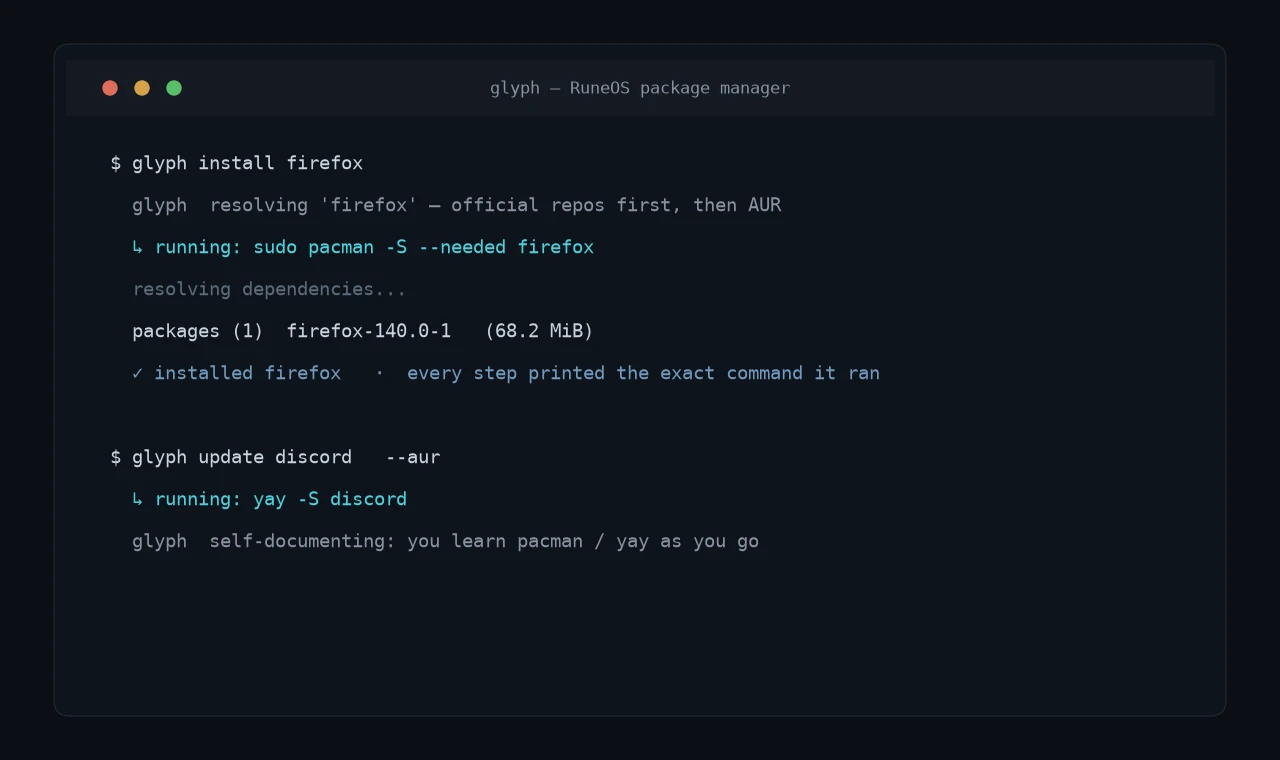
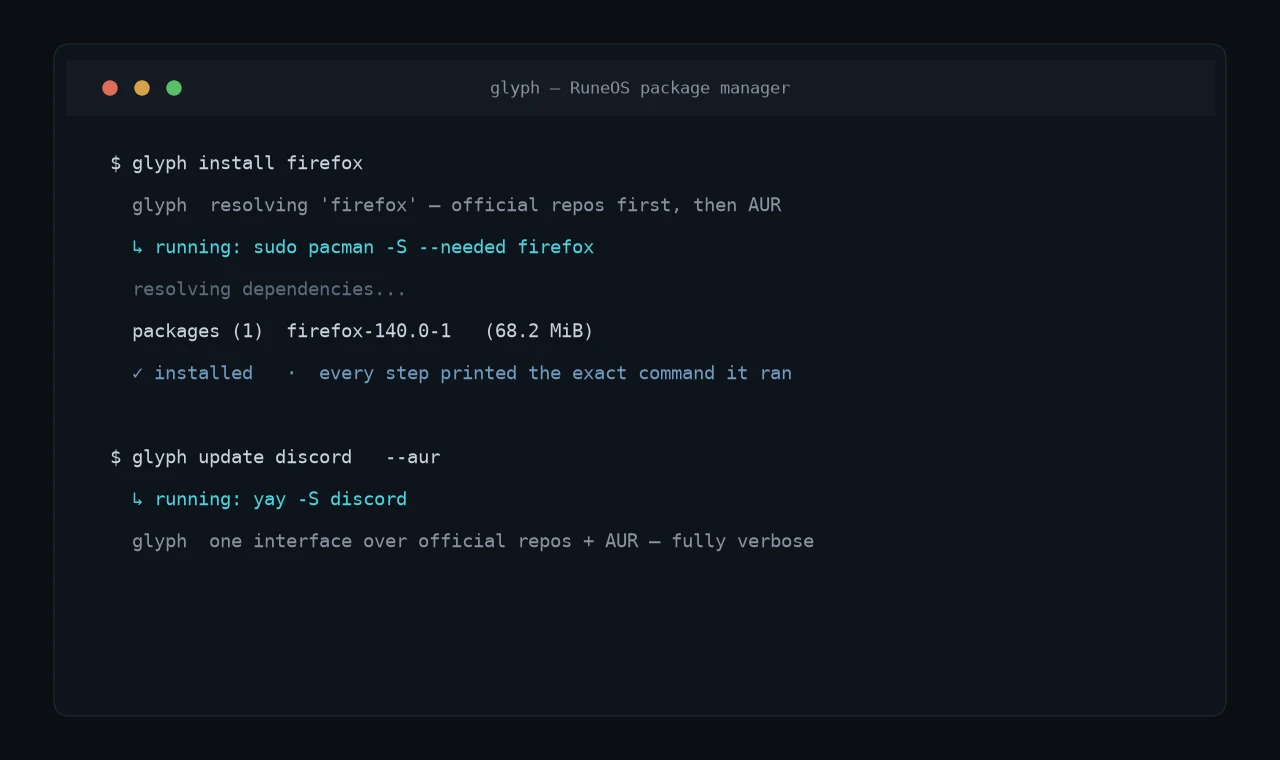
Reorder by impressiveness; fix glyph + RustRent copy; Bellatrix single image
- Systems: RuneOS → Runic → Seance → Coven → livewall → glyph → murder.
- Tools: Weather → WatchTower → repliKate → RustRent → WhoAmI → Nocturne.
- glyph copy: it replaces pacman — dropped the "learn as you go" framing, now
  about being fast/unified/transparent.
- RustRent recast around the real difficulty: resilient scraping through
  anti-bot / rate-limit defenses.
- Bellatrix uses only the single provided render (gallery removed).

Changed region(s): [[0.1562, 0.6961, 0.625, 0.7263], [0.4062, 0.4842, 0.6875, 0.5145], [0.2188, 0.4842, 0.375, 0.5145]]

diff --git a/script.js b/script.js
@@ -195,24 +195,6 @@ const projectsData = [
     },
     {
         section: 'systems', code: 'OS-02',
-        title: 'Seance',
-        short: 'A fail-safe network control plane, in staged eBPF layers, slowly replacing NetworkManager.',
-        image: 'images/seance/seance.webp',
-        tags: ['Rust', 'eBPF', 'Networking', 'cgroup_skb', 'Fail-safe'],
-        description: 'Seance is a network control plane I am building to replace NetworkManager, designed in staged safety layers. The S0 control plane installs a single inert beacon rule at boot, ticks a fixed loop, runs an invariant pass over the rule table, and proves its own liveness on two independent channels — and deliberately never repairs anything it observes, so the teardown path can always clean up after it even when the daemon is "a corpse or a liar." Above it, an eBPF cgroup_skb classifier puts Rust directly in the egress packet path, and a fanotify canary watchdog watches for tampering. The whole thing is engineered fail-safe-first: every rule is something the panic/teardown path can undo without the daemon\'s cooperation.',
-        features: [
-            'Staged design: S0 control plane → eBPF egress classifier → canary watchdog',
-            'eBPF cgroup_skb classifier — Rust in the egress packet path',
-            'S0 proves liveness on two independent channels (sd_notify + heartbeat)',
-            'Never repairs what it observes — teardown works without its cooperation',
-            'fanotify canary watchdog, observe-only',
-            'Fail-safe-first: built before anything that could break the box exists'
-        ],
-        tech: 'Rust · eBPF (aya) · cgroup_skb · fanotify · netlink',
-        github: 'https://github.com/camdenconradsms/rune-sched'
-    },
-    {
-        section: 'systems', code: 'OS-03',
         title: 'Runic',
         short: 'A from-scratch Rust audio server replacing PipeWire — bit-perfect playback, pro low latency, and PipeWire wire-compat.',
         image: 'images/runic/runic.webp',
@@ -230,41 +212,42 @@ const projectsData = [
         github: 'https://github.com/camdenconrad/runic'
     },
     {
-        section: 'systems', code: 'OS-04',
-        title: 'glyph',
-        short: 'A verbose pacman + yay (AUR) front-end that prints the exact command it runs — so it teaches as it goes.',
-        image: 'images/glyph/glyph.webp',
-        tags: ['Rust', 'CLI', 'Arch / pacman', 'AUR', 'RuneOS'],
-        description: 'glyph is the RuneOS package manager — a friendly, verbose front-end over pacman (official repos) and yay (AUR). It always announces what it is doing and prints the exact underlying command before it runs, so "glyph install firefox" or "glyph update discord" is self-documenting: you learn pacman and yay as you go, and there is never any mystery about what glyph did to your system. Official repos are resolved first, with a flag to force the AUR-only path.',
+        section: 'systems', code: 'OS-03',
+        title: 'Seance',
+        short: 'A fail-safe network control plane, in staged eBPF layers, slowly replacing NetworkManager.',
+        image: 'images/seance/seance.webp',
+        tags: ['Rust', 'eBPF', 'Networking', 'cgroup_skb', 'Fail-safe'],
+        description: 'Seance is a network control plane I am building to replace NetworkManager, designed in staged safety layers. The S0 control plane installs a single inert beacon rule at boot, ticks a fixed loop, runs an invariant pass over the rule table, and proves its own liveness on two independent channels — and deliberately never repairs anything it observes, so the teardown path can always clean up after it even when the daemon is "a corpse or a liar." Above it, an eBPF cgroup_skb classifier puts Rust directly in the egress packet path, and a fanotify canary watchdog watches for tampering. The whole thing is engineered fail-safe-first: every rule is something the panic/teardown path can undo without the daemon\'s cooperation.',
         features: [
-            'Verbose front-end over pacman + yay (AUR)',
-            'Prints the exact underlying command before running it',
-            'Self-documenting — teaches pacman/yay as you use it',
-            'Official repos first, with an --aur override',
-            'Fast, single Rust binary'
+            'Staged design: S0 control plane → eBPF egress classifier → canary watchdog',
+            'eBPF cgroup_skb classifier — Rust in the egress packet path',
+            'S0 proves liveness on two independent channels (sd_notify + heartbeat)',
+            'Never repairs what it observes — teardown works without its cooperation',
+            'fanotify canary watchdog, observe-only',
+            'Fail-safe-first: built before anything that could break the box exists'
         ],
-        tech: 'Rust · CLI · pacman · yay / AUR',
-        github: 'https://github.com/camdenconradsms/livewall-studio'
+        tech: 'Rust · eBPF (aya) · cgroup_skb · fanotify · netlink',
+        github: 'https://github.com/camdenconradsms/rune-sched'
+    },
+    {
+        section: 'systems', code: 'OS-04',
+        title: 'Coven',
+        short: 'Rune-native mission control orchestrating parallel Claude Code sessions with adversarial red-team review.',
+        image: 'images/coven/mission-control.webp',
+        tags: ['Rust', 'Orchestration', 'Postgres / pgvector', 'GitHub API'],
+        description: 'Coven is a Rune-native mission-control application that orchestrates multiple parallel Claude Code sessions per project. It integrates with GitHub issues and PRs, runs an adversarial red-team review stage where Codex and Gemini review diffs against each other, keeps a Postgres + pgvector memory, and switches models based on budget. A personal tool for coordinating several automated development workflows at once.',
+        features: [
+            'Orchestrates multiple parallel Claude Code sessions per project',
+            'GitHub issue / PR integration',
+            'Adversarial red-team review — Codex + Gemini reviewing diffs',
+            'Postgres + pgvector long-term memory',
+            'Budget-aware model switching'
+        ],
+        tech: 'Rust · Postgres · pgvector · LLM orchestration',
+        private: true
     },
     {
         section: 'systems', code: 'OS-05',
-        title: 'murder',
-        short: 'A safer kill that refuses to slay session-critical processes unless you perform the --ritual.',
-        image: 'images/murder/murder.webp',
-        tags: ['Rust', 'CLI', 'Linux', 'RuneOS'],
-        description: 'murder is Rune\'s kill: it signals processes by PID or exact name (pkill -x style), but wards the handful of processes that would tear down the live desktop session — the compositor, the wallpaper engine, the dock — and refuses to touch them unless you pass --ritual. It exists because "pkill -x rune" is an instant sign-out and "pkill -f livewall-studio" is a black screen; murder makes the safe thing the default and the dangerous thing deliberate.',
-        features: [
-            'Kill by PID or exact comm name (pkill -x style)',
-            'Wards session-critical processes (compositor, wallpaper, dock)',
-            'Refuses to kill warded processes without --ritual',
-            'Respects an explicitly named signal — never escalates',
-            'Small, fast Rust binary'
-        ],
-        tech: 'Rust · CLI · Linux signals',
-        github: 'https://github.com/camdenconradsms/livewall-studio'
-    },
-    {
-        section: 'systems', code: 'OS-06',
         title: 'livewall-studio',
         short: 'A native Rust + wgpu live-wallpaper engine rendering on the Wayland background layer — the living wallpaper I daily-drive.',
         image: 'images/livewall/fallpark.webp',
@@ -281,21 +264,38 @@ const projectsData = [
         github: 'https://github.com/camdenconradsms/livewall-studio'
     },
     {
-        section: 'systems', code: 'OS-07',
-        title: 'Coven',
-        short: 'Rune-native mission control orchestrating parallel Claude Code sessions with adversarial red-team review.',
-        image: 'images/coven/mission-control.webp',
-        tags: ['Rust', 'Orchestration', 'Postgres / pgvector', 'GitHub API'],
-        description: 'Coven is a Rune-native mission-control application that orchestrates multiple parallel Claude Code sessions per project. It integrates with GitHub issues and PRs, runs an adversarial red-team review stage where Codex and Gemini review diffs against each other, keeps a Postgres + pgvector memory, and switches models based on budget. A personal tool for coordinating several automated development workflows at once.',
+        section: 'systems', code: 'OS-06',
+        title: 'glyph',
+        short: 'A fast package manager that unifies official repos and the AUR under one command — and prints exactly what it runs.',
+        image: 'images/glyph/glyph.webp',
+        tags: ['Rust', 'CLI', 'Arch / pacman', 'AUR', 'RuneOS'],
+        description: 'glyph is the RuneOS package manager — a fast, verbose front-end that unifies pacman (official repos) and yay (AUR) behind a single command. It always announces what it is doing and prints the exact underlying command before it runs, so there is never any mystery about what glyph did to your system: no black-box wrapper, just one fast, explicit interface over both package sources. Official repos are resolved first, with a flag to force the AUR-only path.',
         features: [
-            'Orchestrates multiple parallel Claude Code sessions per project',
-            'GitHub issue / PR integration',
-            'Adversarial red-team review — Codex + Gemini reviewing diffs',
-            'Postgres + pgvector long-term memory',
-            'Budget-aware model switching'
+            'One command over both official repos (pacman) and the AUR (yay)',
+            'Prints the exact underlying command before running it — full transparency',
+            'Verbose, explicit output; never a black box',
+            'Official repos first, with an --aur override',
+            'Fast, single Rust binary'
         ],
-        tech: 'Rust · Postgres · pgvector · LLM orchestration',
-        private: true
+        tech: 'Rust · CLI · pacman · yay / AUR',
+        github: 'https://github.com/camdenconradsms/livewall-studio'
+    },
+    {
+        section: 'systems', code: 'OS-07',
+        title: 'murder',
+        short: 'A safer kill that refuses to slay session-critical processes unless you perform the --ritual.',
+        image: 'images/murder/murder.webp',
+        tags: ['Rust', 'CLI', 'Linux', 'RuneOS'],
+        description: 'murder is Rune\'s kill: it signals processes by PID or exact name (pkill -x style), but wards the handful of processes that would tear down the live desktop session — the compositor, the wallpaper engine, the dock — and refuses to touch them unless you pass --ritual. It exists because "pkill -x rune" is an instant sign-out and "pkill -f livewall-studio" is a black screen; murder makes the safe thing the default and the dangerous thing deliberate.',
+        features: [
+            'Kill by PID or exact comm name (pkill -x style)',
+            'Wards session-critical processes (compositor, wallpaper, dock)',
+            'Refuses to kill warded processes without --ritual',
+            'Respects an explicitly named signal — never escalates',
+            'Small, fast Rust binary'
+        ],
+        tech: 'Rust · CLI · Linux signals',
+        github: 'https://github.com/camdenconradsms/livewall-studio'
     },
 
     // ===== Shipped Games =====
@@ -324,10 +324,6 @@ const projectsData = [
         title: 'Bellatrix',
         short: 'A from-scratch WGSL path tracer with a custom voxel modeling system on top — no game engine underneath.',
         image: 'images/bellatrix/room.webp',
-        gallery: [
-            'images/bellatrix/room.webp', 'images/bellatrix/editor-ui.webp', 'images/bellatrix/layers-ai.webp',
-            'images/bellatrix/scene-3.webp', 'images/bellatrix/scene-10.webp', 'images/bellatrix/scene-a.webp', 'images/bellatrix/lighting.webp'
-        ],
         tags: ['Rust', 'wgpu', 'Path tracing', 'WGSL', 'PBR'],
         description: 'Bellatrix is a 3D scene editor built on a real-time renderer I wrote entirely from scratch — no game engine, and even the UI is a custom immediate-mode GUI rendered directly in wgpu with no framework underneath. Scenes are grid-snapped faces (full / half / quarter) lit by a hand-written path tracer: soft shadows, bounce global illumination, reflections, and temporal accumulation, with HDR image-based environment lighting and physically-based metallic/roughness materials. A denoiser, multi-pass bloom, and click-to-focus depth of field finish each frame. On the editing side there are layers with per-layer materials and visibility, full undo/redo, and a custom project format that stores 20,000+ faces at roughly 2 MB. It is where most of my low-level graphics work lives — a physically-based renderer and the editor around it, built end to end.',
         features: [
@@ -422,6 +418,23 @@ const projectsData = [
     },
     {
         section: 'tools', code: 'TOOL-04',
+        title: 'RustRent',
+        short: 'A resilient rental-market scraper and analysis pipeline in Rust — engineered to get through aggressive anti-bot and rate-limit defenses.',
+        image: 'images/rustrent/rent-analysis.webp',
+        tags: ['Rust', 'Web scraping', 'Anti-bot', 'Async', 'Data'],
+        description: 'RustRent is a rental-market analysis tool in Rust — but the hard part was never the analysis, it was the scraping. Listing sites throw serious defenses at automated clients: fingerprinting, rate limits, bot detection, and markup that shifts under you. RustRent is built to get through all of it reliably — fingerprint-aware request pacing and rotation, careful session handling, and parsing resilient to sites changing — then turns the raw firehose into clean, queryable market data. A job-market-listings variant runs the same scraping engine against hiring data.',
+        features: [
+            'Resilient scraper that gets through aggressive anti-bot / rate-limit defenses',
+            'Fingerprint-aware request pacing, rotation, and session handling',
+            'Parsing that survives sites changing their markup',
+            'Turns a noisy market into clean, queryable data',
+            'Job-market-listings variant on the same engine'
+        ],
+        tech: 'Rust · async · web scraping · data pipeline',
+        private: true
+    },
+    {
+        section: 'tools', code: 'TOOL-05',
         title: 'WhoAmI',
         short: 'A high-dimensional personality model that keeps nuance and contradiction instead of bucketing into Big Five.',
         image: 'images/whoami/whoami.webp',
@@ -436,21 +449,6 @@ const projectsData = [
         ],
         tech: 'C# · .NET · Avalonia · vector modeling',
         github: 'https://github.com/camdenconrad/WhoAmI'
-    },
-    {
-        section: 'tools', code: 'TOOL-05',
-        title: 'RustRent',
-        short: 'Rental-market analysis tool in Rust, with a job-market-listings variant in progress.',
-        image: 'images/rustrent/rent-analysis.webp',
-        tags: ['Rust', 'Analysis', 'Data'],
-        description: 'RustRent is a rental-market analysis tool written in Rust, with a job-market-listings variant currently in progress. It\'s a compact, fast data pipeline for pulling apart a noisy market into something you can reason about.',
-        features: [
-            'Rental-market analysis in Rust',
-            'Fast, compact data pipeline',
-            'Job-market-listings variant in progress'
-        ],
-        tech: 'Rust · data analysis',
-        private: true
     },
     {
         section: 'tools', code: 'TOOL-06',
